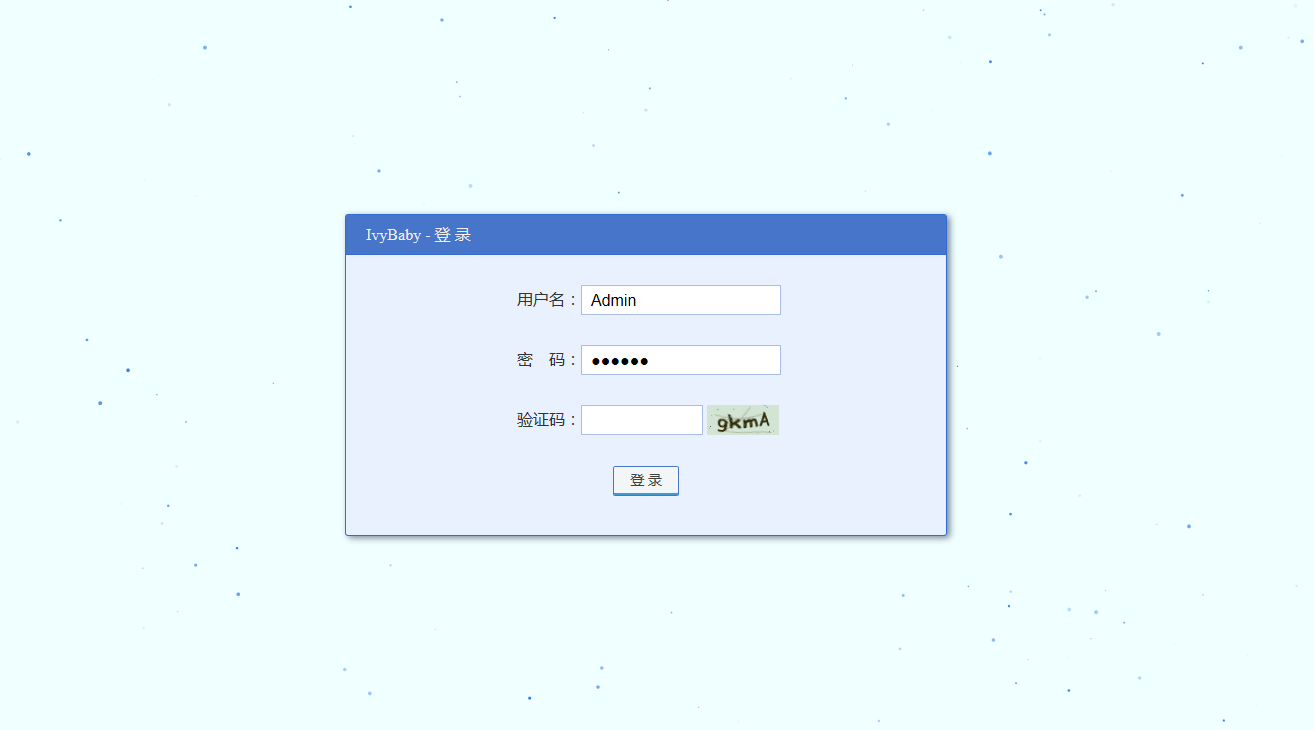
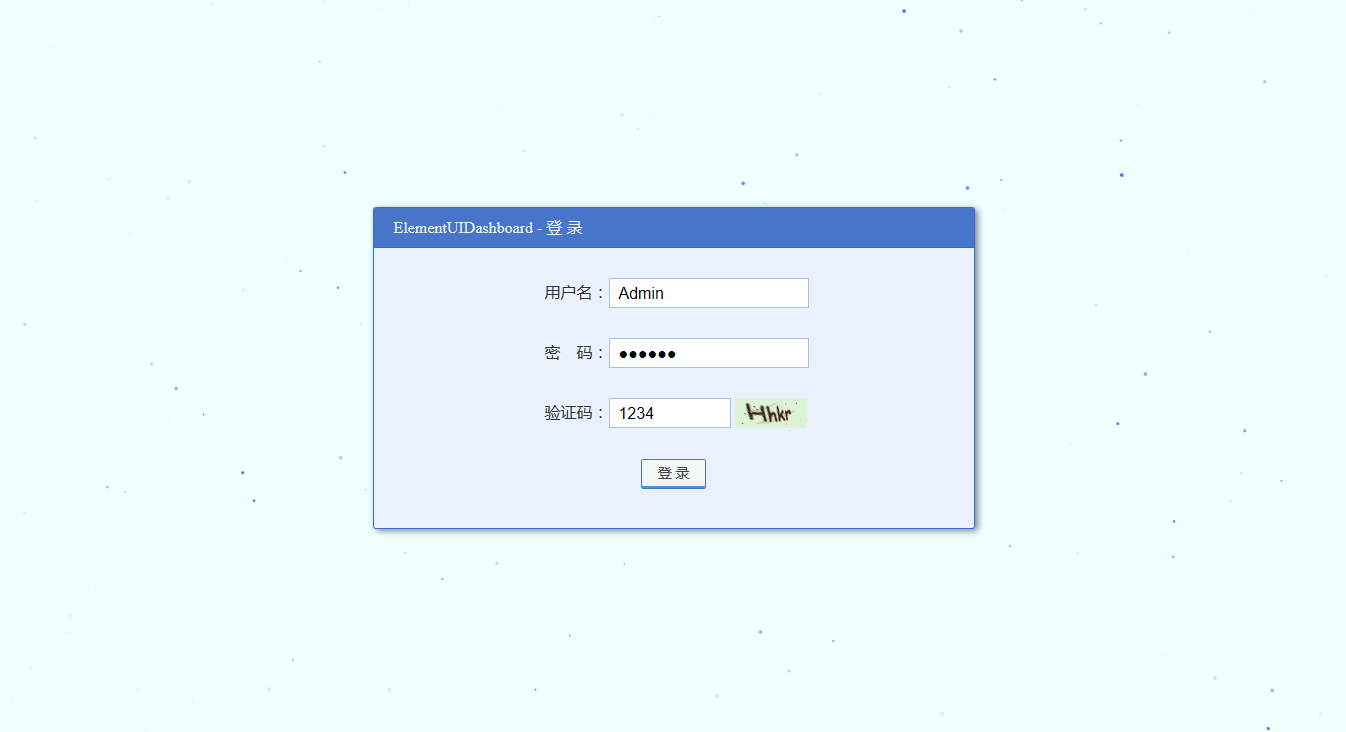
a little change.

diff --git a/src/LoginApp.vue b/src/LoginApp.vue
@@ -4,7 +4,7 @@
 
     <form v-on:submit.prevent id="app">
       <div class="container" id="loginForm">
-        <div class="form-title">IvyBaby - 登 录</div>
+        <div class="form-title">ElementUIDashboard - 登 录</div>
         <div class="form-element form-element-first">
           <div class="form-element-label">用户名：</div>
           <div class="form-element-inp"><input type="text" name="UserName" v-model="UserName"></div>

diff --git a/src/components/layout/Footer.vue b/src/components/layout/Footer.vue
@@ -1,7 +1,7 @@
 <template>
   <el-row class="footer">
     <el-col :span="24">
-      <div class="">&copy; IvBaby Inc.</div>
+      <div class="">&copy; JRoger Inc.</div>
     </el-col>
   </el-row>
 </template>
